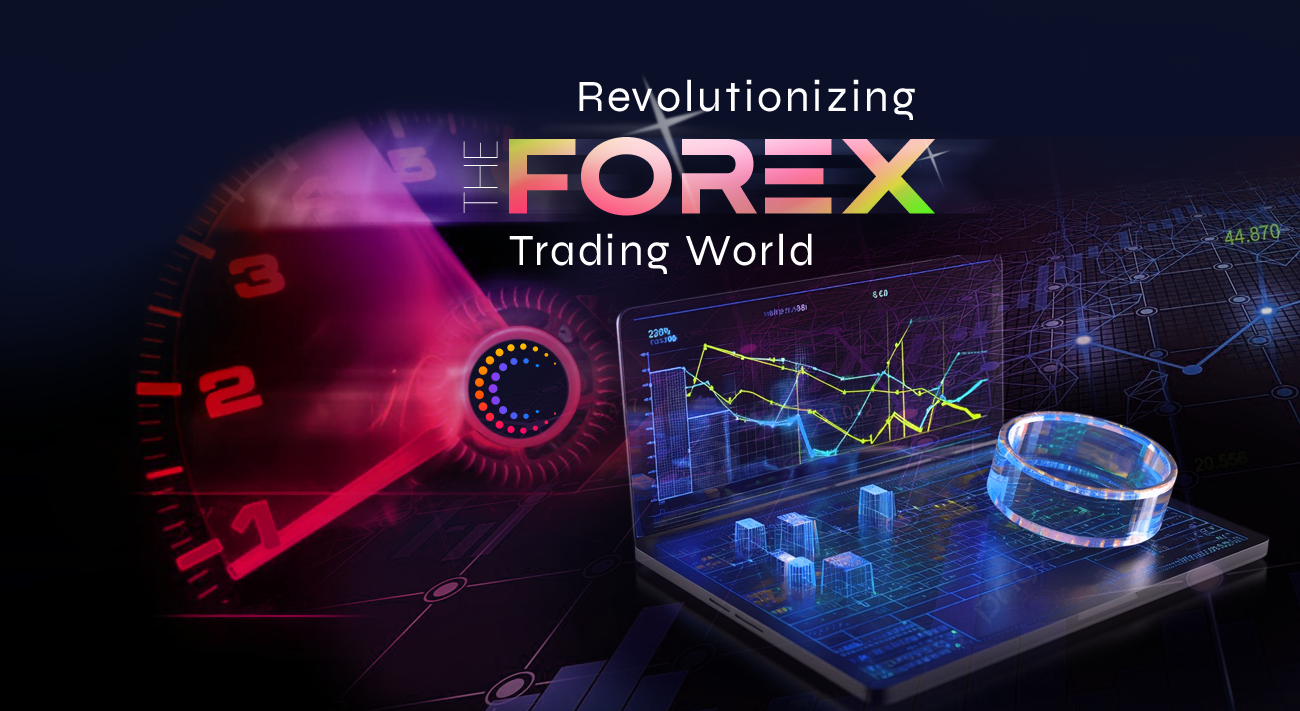
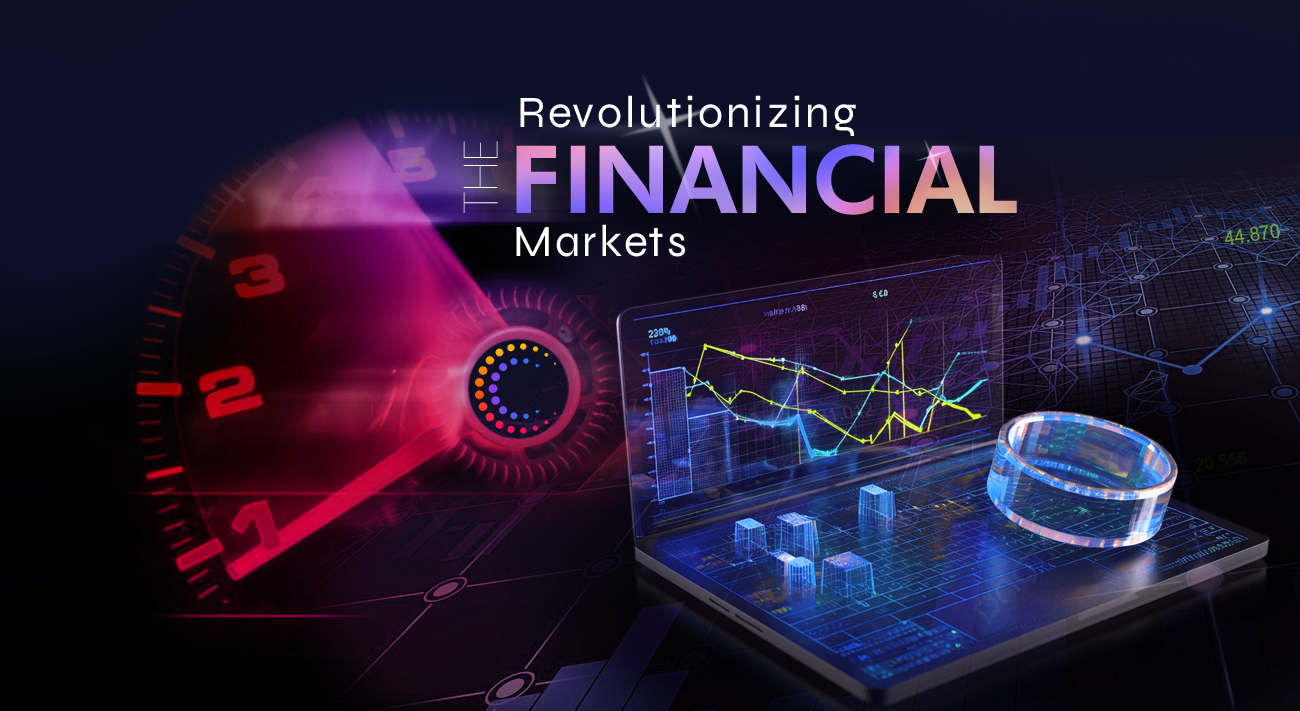
Forex word replaced

Changed region(s): [[0.3692, 0.0928, 0.8, 0.4023]]

diff --git a/index.html b/index.html
@@ -1278,7 +1278,7 @@
                           >
                             <a
                               title="Detail Page"
-                              href="education/what-is-forex-trading-how-does-it-work/index.html"
+                              href="education/what-is--trading-how-does-it-work/index.html"
                               >Detail Page</a
                             >
                           </li>
@@ -1647,7 +1647,7 @@
                               <div class="highlights-box">
                                 <div class="single-item">
                                   <span class="count-text">01.</span>
-                                  <h3>Forex</h3>
+                                  <h3></h3>
                                   <div class="text">
                                     Temporibus autem quibusda et officiis
                                     commodi debitis aut rerum necessitatibu.
@@ -1721,7 +1721,7 @@
                           <div class="large-container">
                             <div class="content-box">
                               <h2>
-                                Complete <span>Forex</span> Trading Experience
+                                Complete <span></span> Trading Experience
                               </h2>
                               <p>
                                 Great deaching of the explorer of the truth the
@@ -1831,7 +1831,7 @@
                               <div class="inner-box">
                                 <p>
                                   At Orcus Global, we're dedicated to
-                                  revolutionizing the world of forex trading.
+                                  revolutionizing the world of trading.
                                   With a focus on innovation, we provide
                                   cutting-edge solutions tailored to meet the
                                   unique needs of every investor. Our team of
@@ -1844,12 +1844,12 @@
                                   else. Join us on the journey to success, where
                                   your financial goals become our mission, and
                                   together, we navigate the ever-evolving
-                                  landscape of the forex market with confidence
+                                  landscape of the financial market with confidence
                                   and expertise.
                                 </p>
                                 <!-- <div class="quote-box">
                                   <h4>
-                                    Everything you need to trade Forex in one
+                                    Everything you need to trade  in one
                                     place
                                   </h4>
                                 </div>
@@ -1858,7 +1858,7 @@
                                   assumenda,
                                 </p> -->
                                 <ul class="list-item clearfix">
-                                  <li>Innovative Forex Solutions.</li>
+                                  <li>Innovative Trading Solutions.</li>
                                   <li>Expert Portfolio Management.</li>
                                   <li>Trusted Industry Leaders.</li>
                                   <li>Your Path to Success.</li>
@@ -1901,7 +1901,7 @@
                       <div class="auto-container">
                         <div class="sec-title centred light">
                           <span class="sub-title" style="color: #fe0120"
-                            >Forex Trading</span
+                            >In Trading</span
                           >
                           <h2>Discover the Power of Orcus Global</h2>
                         </div>
@@ -1946,7 +1946,7 @@
                                 </div>
                                 <div class="link-box">
                                   <a
-                                    href="tradings/what-is-forex-trading/index.html"
+                                    href="tradings/what-is--trading/index.html"
                                     ><span>More</span></a
                                   >
                                 </div> -->
@@ -1978,10 +1978,10 @@
                                 </div>
                                 <div class="text">
                                   <h3>
-                                    <a>Innovative Forex Strategies</a>
+                                    <a>Innovative Trading Strategies</a>
                                   </h3>
                                   <p>
-                                    Experience the forefront of forex innovation
+                                    Experience the forefront of trading innovation
                                     with Orcus Global's cutting-edge trading
                                     strategies.
                                   </p>
@@ -2043,7 +2043,7 @@
                                 </div>
                                 <div class="link-box">
                                   <a
-                                    href="tradings/how-to-trade-forex/index.html"
+                                    href="tradings/how-to-trade-/index.html"
                                     ><span>More</span></a
                                   >
                                 </div> -->
@@ -2183,7 +2183,7 @@
                                     Stay ahead of the curve with Orcus Global's
                                     state-of-the-art trading technology,
                                     empowering you with the tools you need to
-                                    thrive in the forex market.
+                                    thrive in the market.
                                   </p>
                                 </div>
                                 <!-- <div class="link-box">
@@ -2370,7 +2370,7 @@
                       ></div>
                       <div class="auto-container">
                         <div class="sec-title centred">
-                          <span class="sub-title">Forex Trading</span>
+                          <span class="sub-title"> Trading</span>
                           <h2>Top <span>Pricing</span> List in Market</h2>
                         </div>
                         <div class="tabs-box">
@@ -3165,7 +3165,7 @@
                         </div>
                         <!-- <div class="lower-content">
                           <p>
-                            Everything you need to trade Forex in one place.
+                            Everything you need to trade  in one place.
                           </p>
                           <a
                             href="https://www.youtube.com/watch?v=nfP5N9Yc72A&amp;t=28s"
@@ -4004,7 +4004,7 @@
                     <div class="widget-content">
                       <p>
                         At Orcus Global, we're dedicated to revolutionizing the
-                        world of forex trading. With a focus on innovation, we
+                        world of trading. With a focus on innovation, we
                         provide cutting-edge solutions tailored to meet the
                         unique needs of every investor.
                       </p>

diff --git a/company/index.html b/company/index.html
@@ -1410,7 +1410,7 @@
                           >
                             <a
                               title="Detail Page"
-                              href="../education/what-is-forex-trading-how-does-it-work/index.html"
+                              href="../education/what-is--trading-how-does-it-work/index.html"
                               >Detail Page</a
                             >
                           </li>
@@ -3022,8 +3022,8 @@
                                   alt="Awesome Image"
                                 />
                               </div>
-                              <h3>Global Forex <br />Broker of the Year</h3>
-                              <p>Global Forex Awards <br />Mar, 2021</p>
+                              <h3>Global  <br />Broker of the Year</h3>
+                              <p>Global  Awards <br />Mar, 2021</p>
                             </div>
                           </div>
                           <div class="awards-block-one">
@@ -3042,7 +3042,7 @@
                                 />
                               </div>
                               <h3>Most Transparent <br />FX Broker</h3>
-                              <p>The Forex Expo USA <br />Dec, 2018</p>
+                              <p>The  Expo USA <br />Dec, 2018</p>
                             </div>
                           </div>
                           <div class="awards-block-one">
@@ -3060,8 +3060,8 @@
                                   alt="Awesome Image"
                                 />
                               </div>
-                              <h3>Best Forex Rewards <br />Program</h3>
-                              <p>Global Forex Awards <br />Jun, 2016</p>
+                              <h3>Best  Rewards <br />Program</h3>
+                              <p>Global  Awards <br />Jun, 2016</p>
                             </div>
                           </div>
                           <div class="awards-block-one">
@@ -3079,8 +3079,8 @@
                                   alt="Awesome Image"
                                 />
                               </div>
-                              <h3>Global Forex <br />Broker of the Year</h3>
-                              <p>Global Forex Awards <br />Mar, 2021</p>
+                              <h3>Global  <br />Broker of the Year</h3>
+                              <p>Global  Awards <br />Mar, 2021</p>
                             </div>
                           </div>
                           <div class="awards-block-one">
@@ -3099,7 +3099,7 @@
                                 />
                               </div>
                               <h3>Most Transparent <br />FX Broker</h3>
-                              <p>The Forex Expo USA <br />Dec, 2018</p>
+                              <p>The  Expo USA <br />Dec, 2018</p>
                             </div>
                           </div>
                         </div>
@@ -3183,7 +3183,7 @@
                     <div class="widget-content">
                       <p>
                         At Orcus Global, we're dedicated to revolutionizing the
-                        world of forex trading. With a focus on innovation, we
+                        world of trading. With a focus on innovation, we
                         provide cutting-edge solutions tailored to meet the
                         unique needs of every investor.
                       </p>

diff --git a/contact/index.html b/contact/index.html
@@ -1652,7 +1652,7 @@
                                       </div>
                                       <h4>Live Chat Support</h4>
                                       <p>
-                                        Chat live with our forex specialist.
+                                        Chat live with our  specialist.
                                       </p>
                                       <div class="link-box">
                                         <a href="mailto:info@example.come"
@@ -2011,7 +2011,7 @@
                     <div class="widget-content">
                       <p>
                         At Orcus Global, we're dedicated to revolutionizing the
-                        world of forex trading. With a focus on innovation, we
+                        world of trading. With a focus on innovation, we
                         provide cutting-edge solutions tailored to meet the
                         unique needs of every investor.
                       </p>
